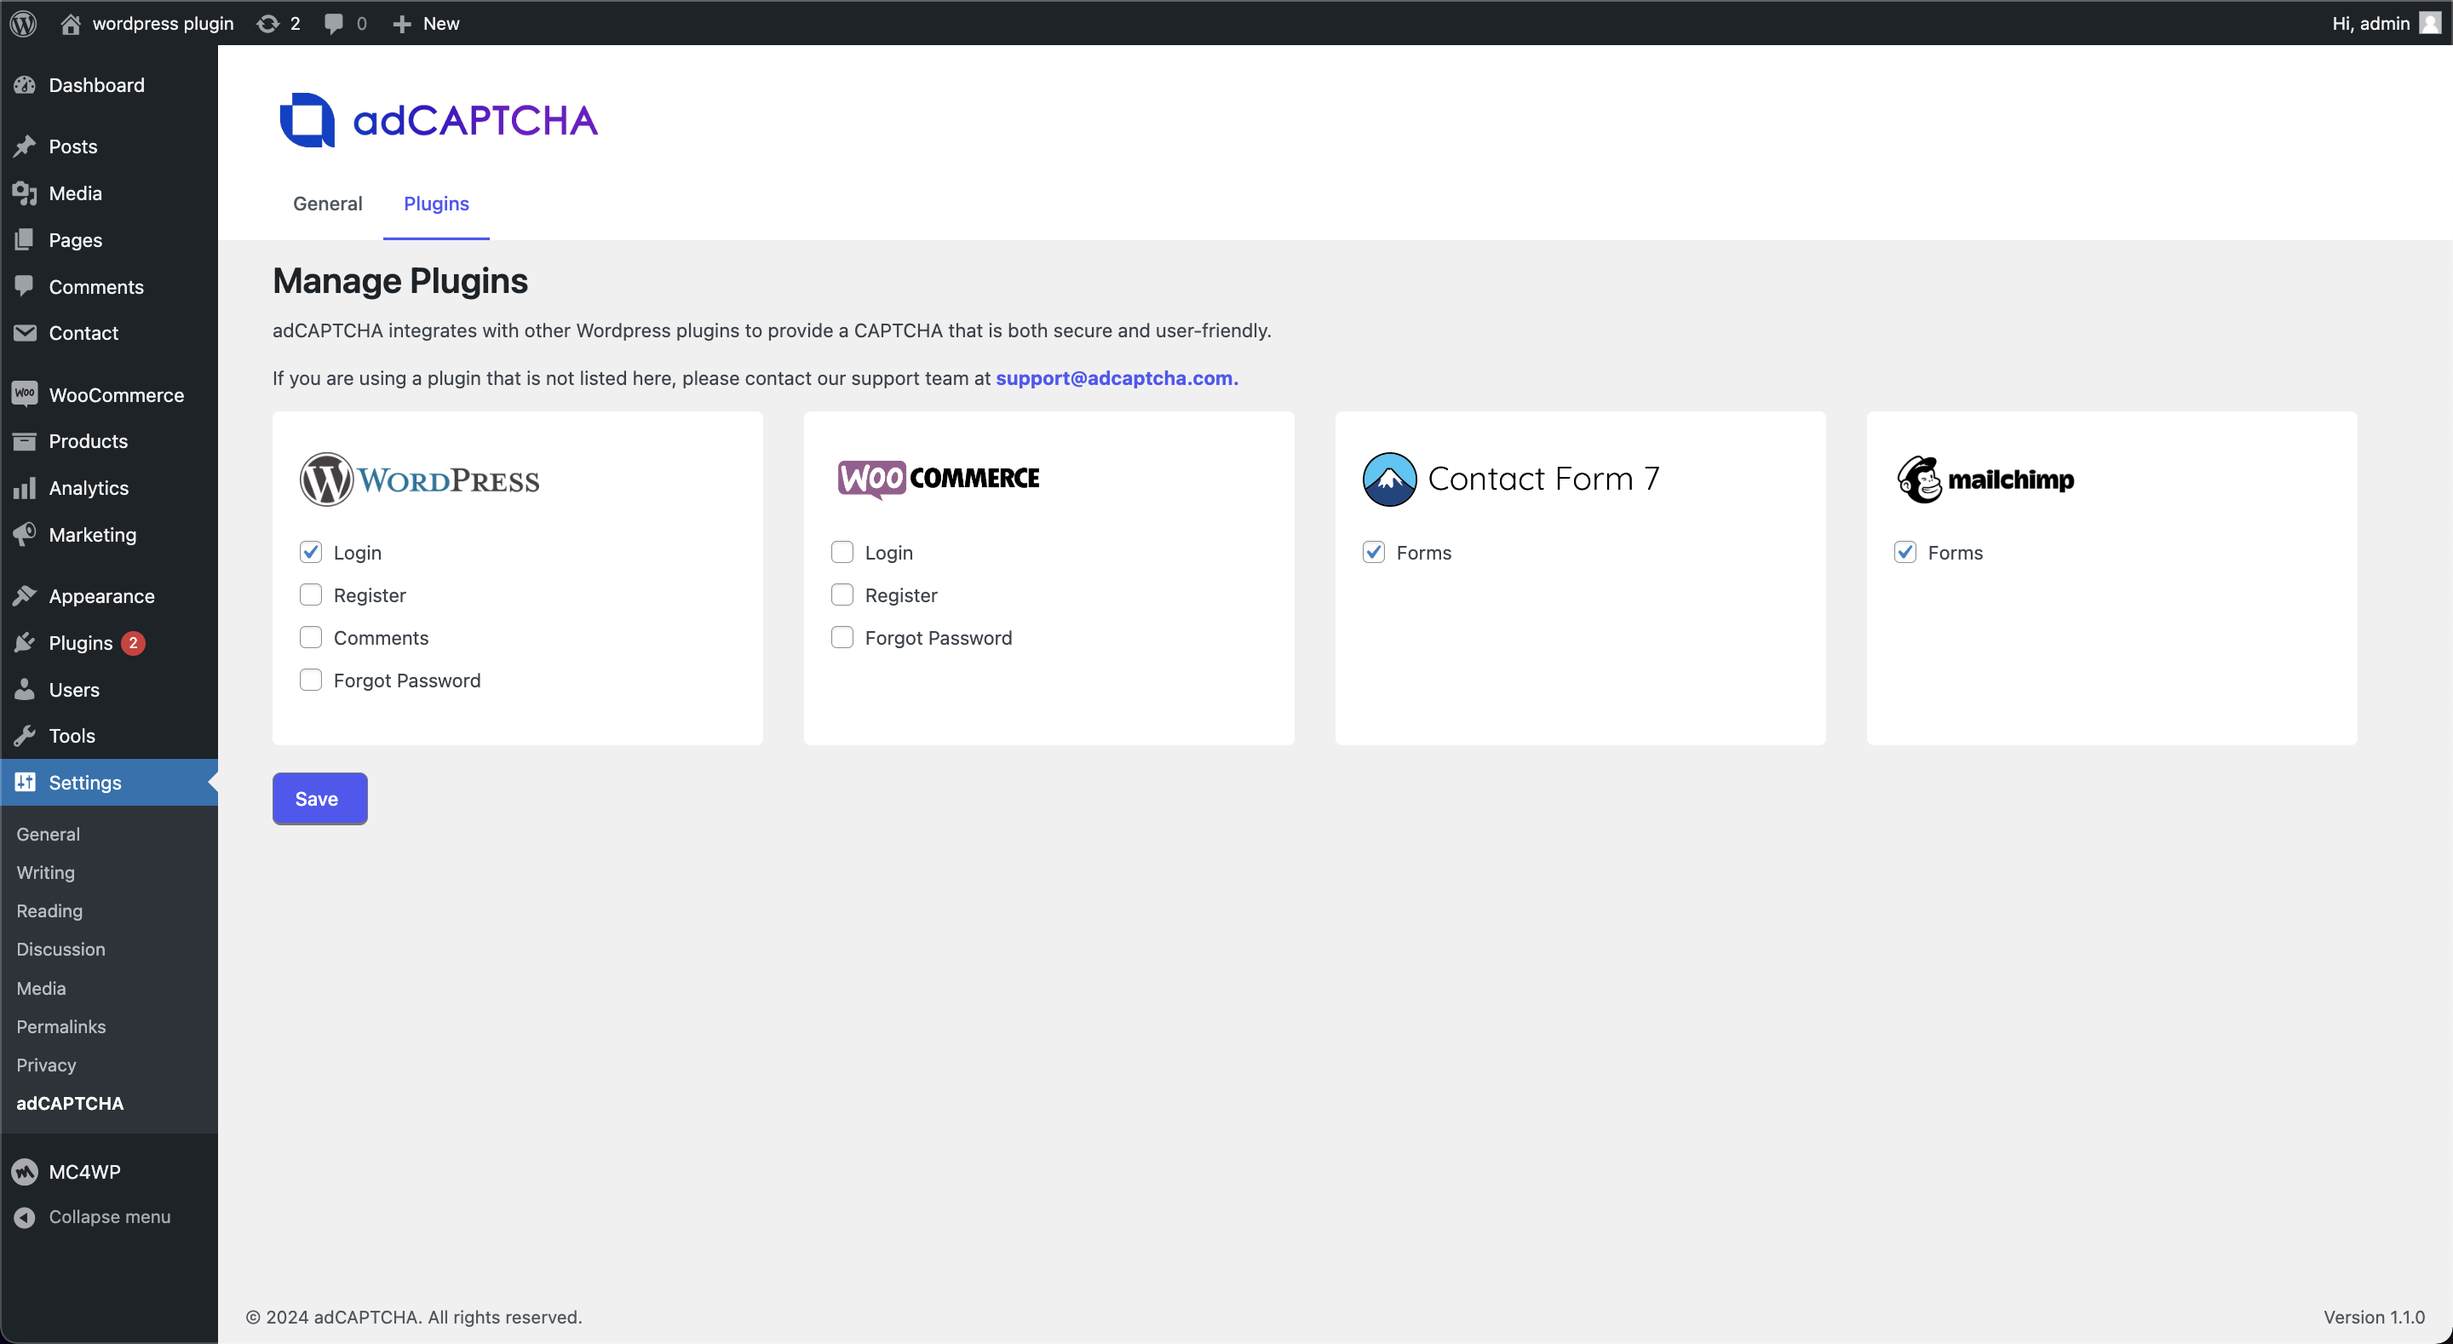
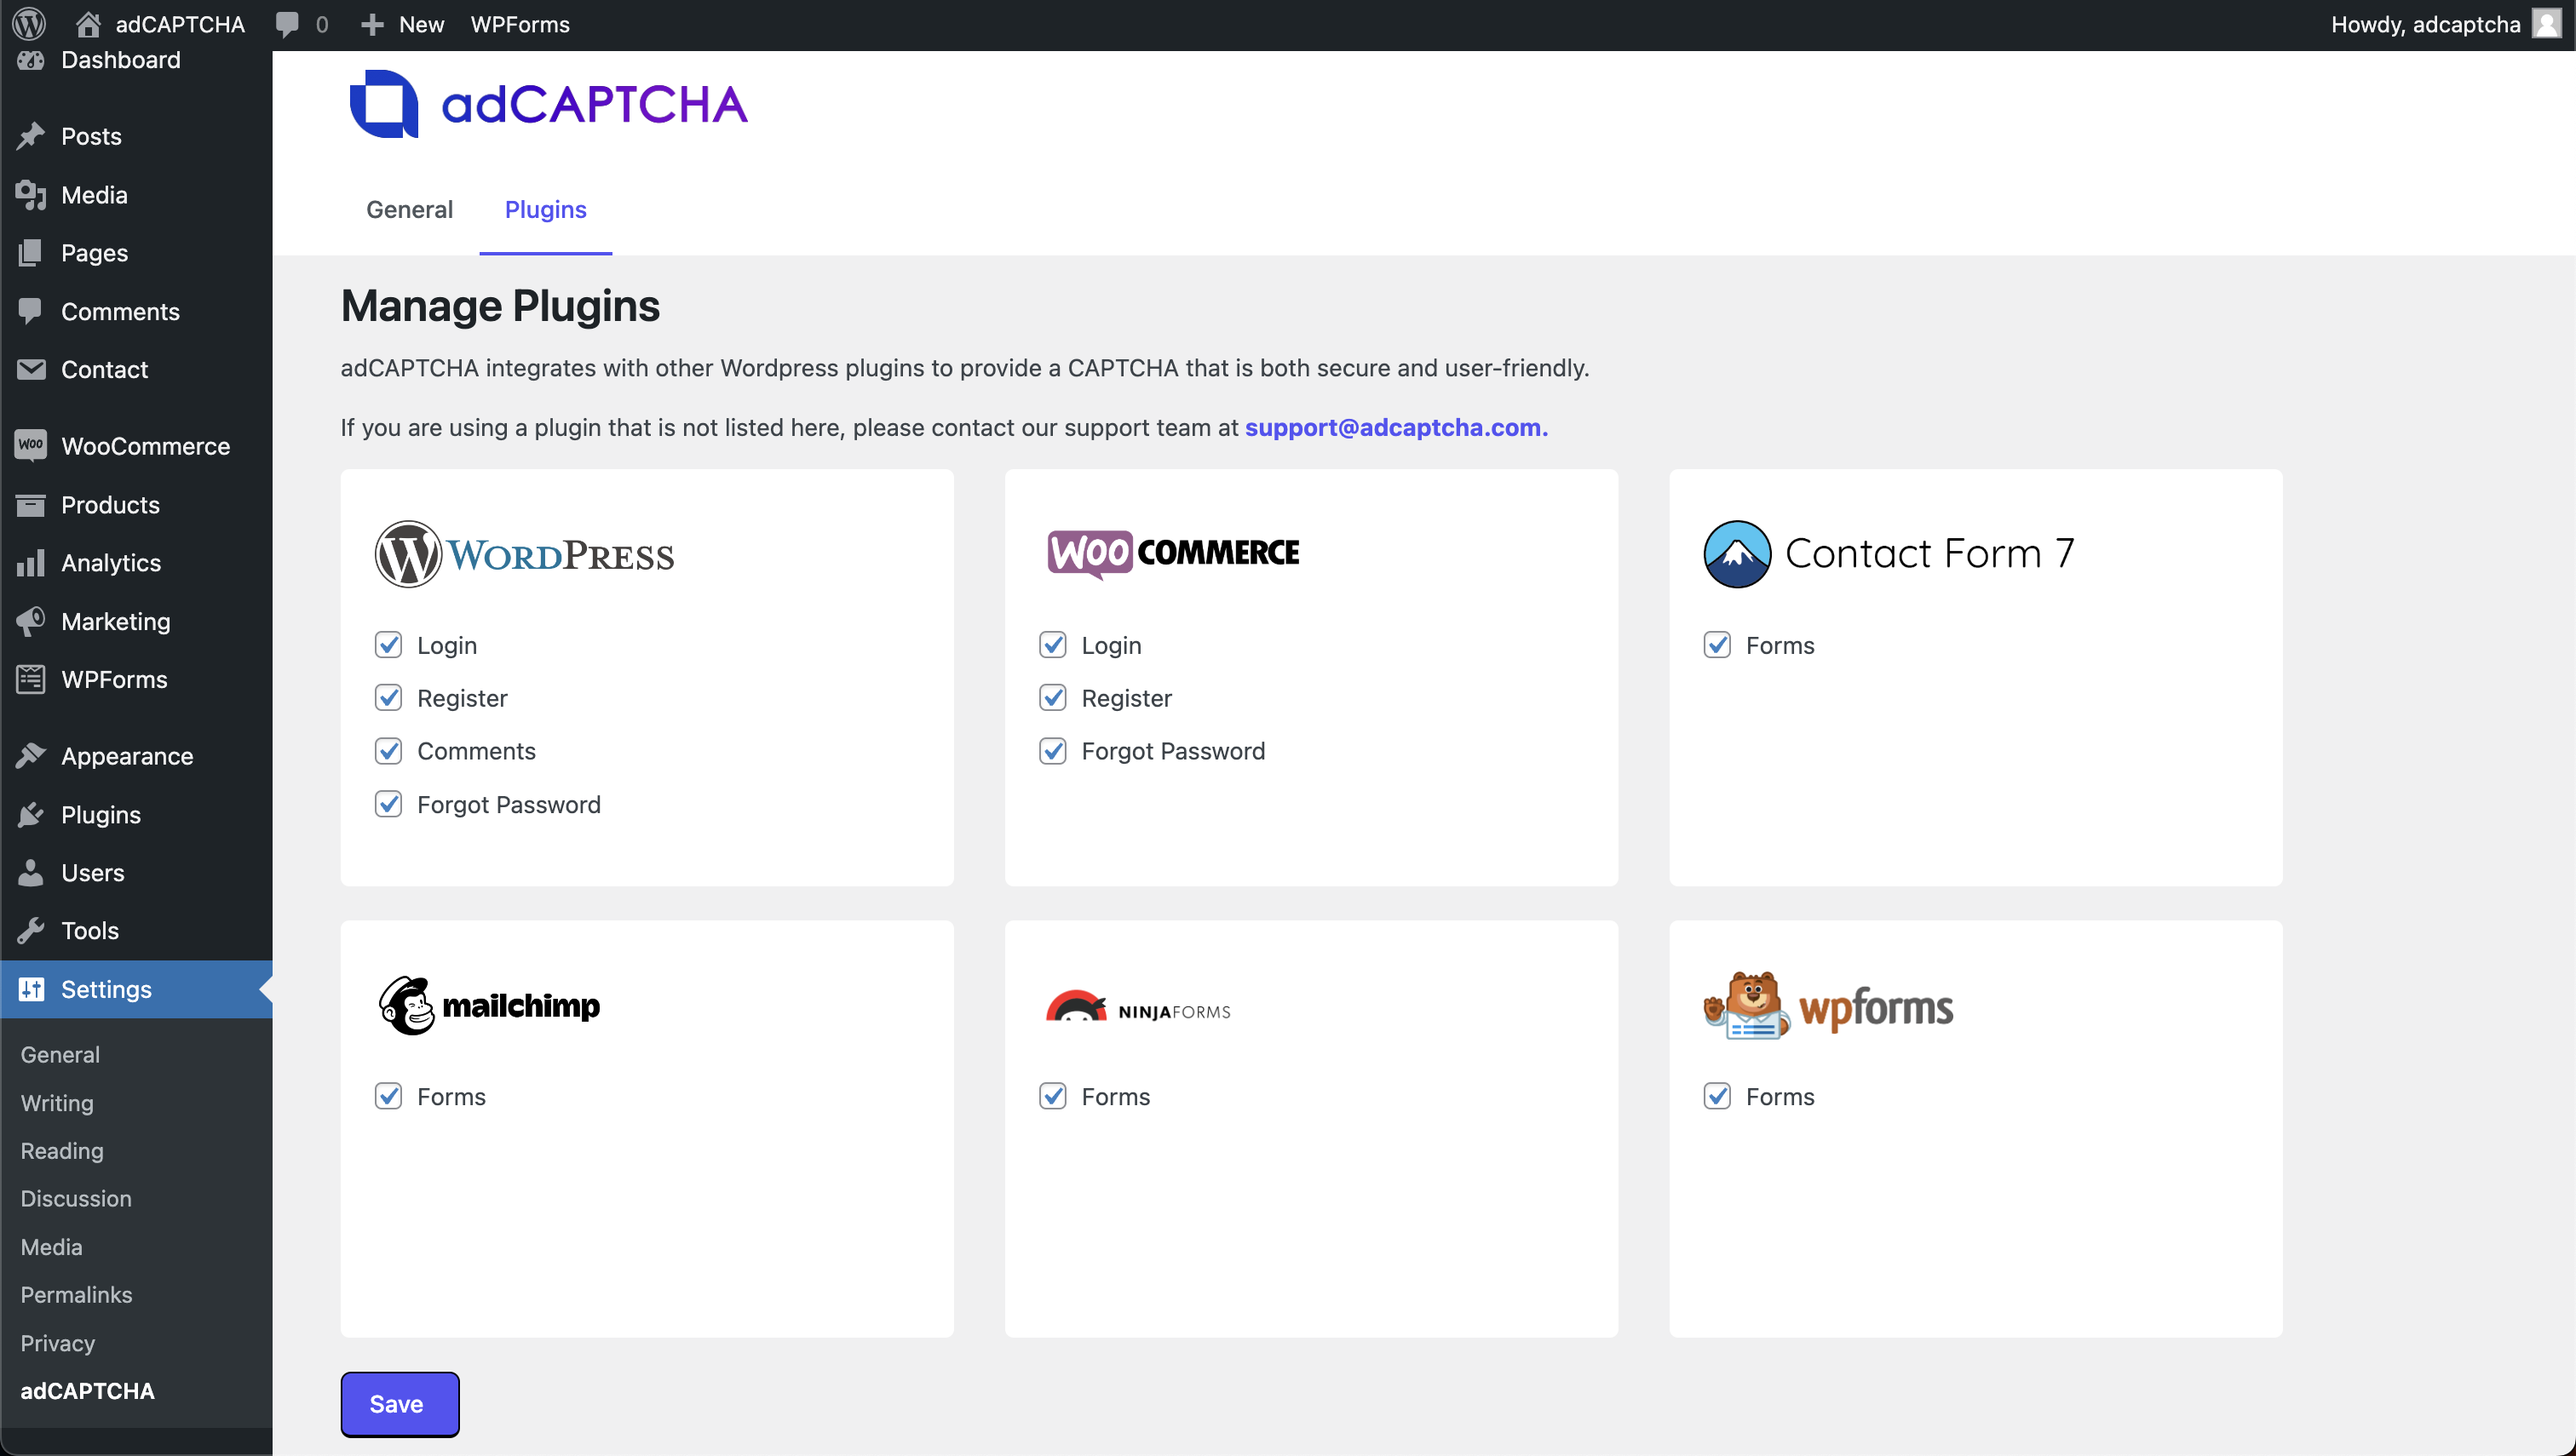
lt update readme docs and screenshot

diff --git a/adcaptcha.php b/adcaptcha.php
@@ -2,7 +2,7 @@
 /**
  * Plugin Name: adCAPTCHA for WordPress
  * Description: Secure your site. Elevate your brand. Boost Ad Revenue.
- * Version: 1.2.0
+ * Version: 1.2.1
  * Requires at least: 6.4.2
  * Requires PHP: 7.4
  * Author: adCAPTCHA
@@ -39,7 +39,7 @@ require_once plugin_dir_path(__FILE__) . 'src/Plugin/WPForms/Forms.php';
 
 use AdCaptcha\Instantiate;
 
-const PLUGIN_VERSION_ADCAPTCHA = '1.2.0';
+const PLUGIN_VERSION_ADCAPTCHA = '1.2.1';
 define('ADCAPTCHA_ERROR_MESSAGE', __( 'Please complete the I am human box.', 'adcaptcha' ));
 
 // Deletes data saved in the wp db on plugin uninstall

diff --git a/src/Settings/Settings.php b/src/Settings/Settings.php
@@ -70,6 +70,6 @@ class Settings {
     }
 
     public function change_admin_footer_version() {
-        return 'Version 1.2.0';
+        return 'Version 1.2.1';
     }
 }

diff --git a/README.md b/README.md
@@ -39,6 +39,14 @@ Moreover, the implementation of adCAPTCHA is designed with performance in mind. 
 
 * Forms
 
+### Ninja Forms
+
+* Forms
+
+### WPForms
+
+* Forms
+
 ## Privacy Notices
 
 adCAPTCHA adheres to GDPR regulations.
